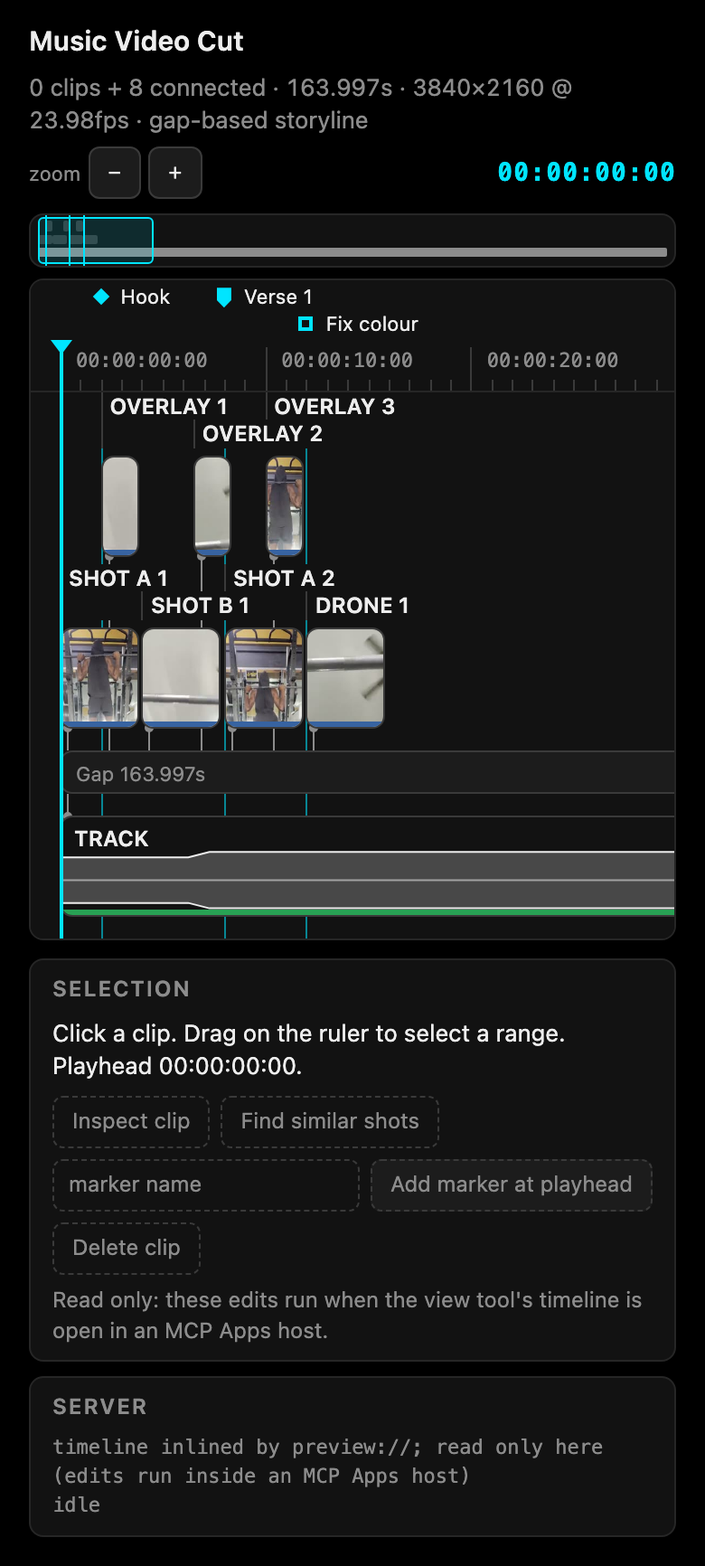
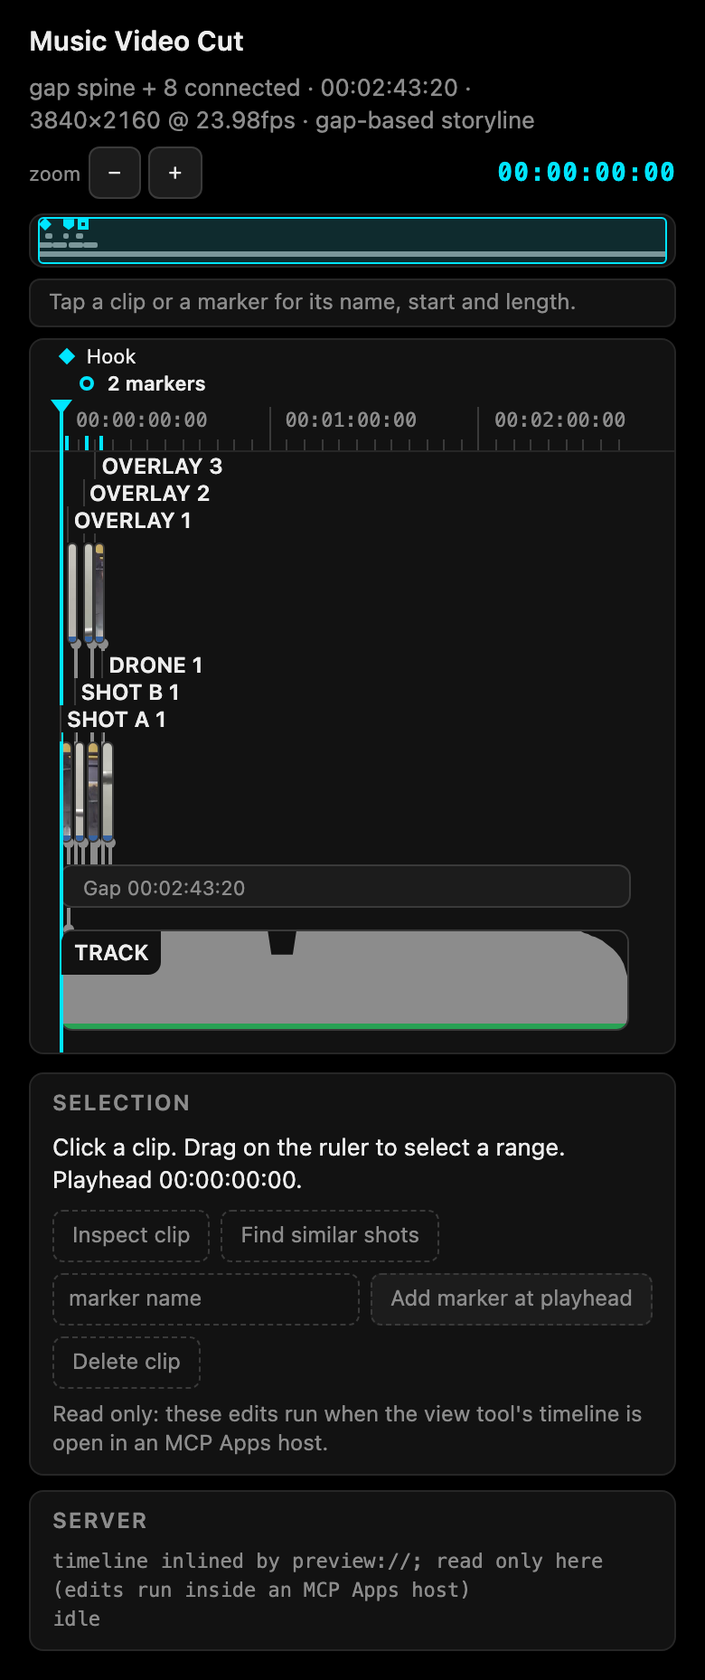
docs: 0.34 round 3, every frame and the README picture re-shot, CHANGELOG, README, counts
- docs/screenshots/2026-11-15_034-*: all sixteen frames re-shot after round
  3 from the same headless harness (CMUX_PREVIEW stubbed, paths rewritten to
  /fcp-demo, shot_guard clean).
- docs/assets/timeline-preview.png: now the gym cut at 1440, dark, drawn by
  scripts/readme_timeline.py, which checked it before saving (every picture
  clip with a filmstrip that is not flat, every clip with sound with its
  waveform, 4 markers drawn of 4). The README caption says what it is.
- CHANGELOG 0.34.0: the round-3 changes (fit, names on rows, nothing through
  text, transitions, titles, markers in clusters, the waveform's own band,
  the strip, overview, header, the README picture), their gates and
  mutations, and what is still not done.
- README app section and CLAUDE.md architecture updated; test counts
  re-measured on four variants (2961 tests across 106 files).

Claude-Session: https://claude.ai/code/session_01Majkfyw52xXpeyZZPHZGD2

diff --git a/CLAUDE.md b/CLAUDE.md
@@ -24,11 +24,19 @@ fcpxml/timeline_app.py — The MCP Apps timeline: a PURE payload builder (every
                       round-trip with no ffmpeg) and the self-contained
                       ui://fcp/timeline shell (no CDN, no fetch). ONE look
                       since 0.34 (direction B, open like Final Cut; the
-                      `direction` flag is gone): overview bar, median clip
-                      >= 44 px, 88/72/56 px clips, names whole / middle-cut /
-                      on a rail / in the tap sheet (never 1-3 chars), role
-                      stripe, waveform, marker glyphs, snap, host theme then
-                      OS. tests/test_app_glance.py holds every rule on the
+                      `direction` flag is gone): the whole cut in the track
+                      at open (round 3 replaced "median clip >= 44 px"),
+                      overview bar, 88/72/56 px clips, the filmstrip over
+                      the waveform's own band, names whole / middle-cut / on
+                      name rows (railFor) / in the tap strip above the ruler
+                      (never 1-3 chars), markers named right of their glyph
+                      or in cluster chips (placeMarkers), nothing drawn
+                      through text (z: conn -1 < flash 4 < trans 5 <
+                      playhead 6 < labels 7 < rows 8+ in an isolated
+                      #canvas), role stripe and Titles-coloured title
+                      bodies, snap, host theme then OS.
+                      scripts/readme_timeline.py draws the README picture
+                      (the gym cut) and refuses to save an empty one. tests/test_app_glance.py holds every rule on the
                       three fixtures (gym, music video, demo/fixtures/
                       interview.py). The payload travels as the result's
                       structuredContent (mcp_compat.ToolReply ->
@@ -321,7 +329,7 @@ CI runs both on every push to main. If either fails, the commit gets an X on Git
 
 ## Testing
 
-2906 tests across 105 files (measured 2026-11-15 on v0.34.0 after the gatekeeper's round 2, Final Cut Pro 12.4 present: 2898 pass / 8 skip on mcp 2.3.0 and 2895 pass / 11 skip on mcp 1.28.1, both with Pillow and Playwright's Chromium and `FCP_MCP_REQUIRE_BROWSER=1`, ffmpeg 9.0.1; 2749 pass / 13 skip on ffmpeg 6.1.6 via `scripts/test-ffmpeg6.sh`, without Playwright, where `test_app_glance.py`, `test_app_labels.py`, `test_app_motion.py` and `test_hero_assets.py` skip as modules; with `FCP_MCP_INDEX=off` 2874 pass / 32 skip, the skips being tests OF the cache). v0.34.0 adds `test_app_glance.py` (32, replaces `test_app_directions.py`; CI's `rendered-labels` job runs it): the one look on the three fixtures (gym, music video with three markers on its gap, `demo/fixtures/interview.py`) at 1440/430/390: no visible name under 4 characters, none cut, no two texts overlapping, the median clip >= 44 px, the overview spanning the whole cut, no sideways page, cyan text only on the record time, the track area >= 35% of the page at 1440, clip heights by lane type, the middle ellipsis, the tap sheet, the snap, role stripes in Final Cut's colours, waveforms, the four marker glyphs, the flash, theme tokens for preview:// (OS) and for the app in a stand-in host (host theme, OS, change notification), the payload drawn from `structuredContent`; and (round 2) every ruler time 2 px clear of every tick, every visible marker glyph with its whole name, no band of one flat colour across a picture clip's body; each gate broken once inside the module (14 mutations in 13 `*_red` tests; the flash test is not one). `test_view_budget.py` (8, no browser): through the registered tools/call handler on the installed SDK, the five-clip text under 2,000 characters with no picture, the interview payload under 700,000 bytes, peaks cached in the index and identical with it off; red on the 0.33 reply, a full-rate waveform, a reader that skips the index. `test_diagnose_order.py` (4): the Issues table FAIL/WARN/INFO and a lane clip's flash at its timeline_start, each with its mutation. `test_proofs.py` gained the silence-label-inside-its-span and flash-badge gates with mutations; `test_palette.py` runs `scripts/fcp_role_colours.m` against Final Cut when it and clang are installed. v0.33.0 adds `test_media_clock.py` (62, #45): the issue's repro; every writer read back through the parser to the same FILE frames with and without a tmcd track at 30, 29.97 NDF/DF and 23.976; a clock off the sequence grid never snapped before the file; Sony/Matroska timecode found and not used; missing media and no ffprobe; a Chinese folder with a space, DTD-valid; the validator's Media clock FAIL/WARN/PASS/not-judged/not-measured rows, one probe per file; `src` on insert/connected clips; exact source starts; drop-frame labels both ways. 41 mutations, each red (2026-11-14; script kept outside the repo); suite 2692 pass / 9 skip on ffmpeg 9.0.1 and on 6.1.6, 2668 / 33 with FCP_MCP_INDEX=off, in a venv without Playwright or Pillow. v0.32.0 adds `test_proofs.py`: every gate reads the OUTPUT and compares it with a truth computed in the test (its own timecode function, the PARSED timeline): each sheet cell's record and source timecodes read back off the PNG (the phone page also at its delivered 390 px), both burn lines of all 724 frames of the burned gym proxy against the clips on screen ("Bench (L1) over Squat"), every check thumbnail against the ruler drawn under it, every ruler tick to 1 px on every row it claims, the removed frames and the cut pair, the cut's out- and in-point each read through its own band's drawn ruler, no label within 8 px of a line or mark, the padding read from the edit, every range in-out with its length, the dB waveform and its labelled scale, one clip count across three outputs, the picture-flash at 00:00:20:03, the 14 px / 1568 px / 12-cell rule, burn-before-verify failing the lane instrument on a bottom-left quarter PiP, a frame decoded by index (testsrc2) to prove the shown frame is the named one, image blocks present and under the cap through `server.call_tool` on both SDKs, no collisions, no truncation, red only for failure; it builds `demo/fixtures/gym_session.py` once per module with the journal and index off and restored after. `test_visual.py` was rewritten for the banded check and `test_preview.py` for the inlined page; `test_app_labels.py` holds the page's fit, every clip named (inside or on its rail) and the read-only controls (the clip numbers and the key went with the 0.32 look in 0.34). conftest.py stubs the cmux preview hook for every test. 158 mutations, each red (2026-11-13; 40 of them also on mcp 2.3.0); the round-4 script and logs are kept outside the repo with the gauntlet. `test_hero_assets.py` decodes the hero MP4's first frame with ffmpeg and requires the finished cut; since round 6 it also holds the composed stage (no hold over 1.5 s, a seamless loop, no dissolve between held pictures, the recorder's own coverage and type numbers), and since round 7 the read time (every caption's hold, read off the MP4's caption band), the GIF's one-frame holds, and `hero-run.json` (the close-up and the unedited recording are the same run: same notes, results and thumbnails, each file's sha256 recorded); `demo/hero/record.js` refuses the per-frame gates itself (doubled, dropped or clipped names, stretched thumbnails, coverage, measured type, caption holds, the split's frame count, the push range, a clip count that jumps without motion), and `build.py`'s `tie()` refuses two recordings that showed different runs. `test_front_door.py` pins the frozen social card and logo by sha256: changing one is a deliberate act that updates the pin. Mutation runs go with PYTHONDONTWRITEBYTECODE=1: a same-length mutation restored within the same second leaves a .pyc of the mutated source that Python still trusts. `test_app_labels.py` renders the app and the preview:// page in headless Chromium and fails on any cut or needlessly hidden label; CI's `rendered-labels` job installs the browser and sets `FCP_MCP_REQUIRE_BROWSER=1` so it cannot skip there. `test_sequence_duration.py` holds the ripple-shortens-the-sequence fix. v0.31.0 adds `test_palette.py` (every colour in a surface file is a token of `fcpxml/palette.py`, tokens are grey/cyan/red, text pairs at 4.5:1 in both modes, the rendered app and preview:// carry only tokens, three README badges on the tokens), `test_schema_budget.py` (the advertised schema, 30,714 characters, may not grow; a shrink of more than 500 asks for the budget to be lowered), `test_front_door.py` (the old tagline, name, Omni model and card version at zero outside CHANGELOG.md; one display name), `test_pypi_readme.py` (the publish-time rewrite and the check of the BUILT description), the price table's sources and 45-day age in `test_gen.py`, and `view`'s summary agreeing with `diagnose` in `test_view_group.py`; each guard was broken in the real code once and seen red (2026-11-12). v0.30.0 adds `test_preview_audio.py`: loudness measured at chosen instants of the rendered file (each clip heard at its time, a gap silent, an audio lane from its offset, -96 dB silent, a `<video>` element silent) with a mutation check that a clip moved to 0s reads as silence where it belongs. Run `scripts/test-ffmpeg6.sh` before pushing anything that touches the filtergraph: ffmpeg 6.1 is CI's build and it has already behaved differently from 9.x once. v0.29.0 adds `test_asset_clock.py`: one 8s clip written with and without a 01:00:00:00 timecode track must give the same answer from silence detect/remove, scene detect/split, transcript edits, find_shots, find_to_timeline (in-points written on the asset clock), the view payload and gen's frame; mutation-checked (9 fail with the origin ignored). v0.28.0 adds `test_preview_truth.py`: John Palchak's three preview_render cases rebuilt in Final Cut's own shapes through the real parser and ffmpeg (a transition longer than its neighbour, a PNG still alone on the spine, lanes on a trimmed parent and on a 3600s gap), plus timecoded media, a mid-timeline gap, a clip past the end of its file, an audio-only spine clip, a missing head handle, a transformed PiP, mixed clip shapes (the "Nothing was written" error, which FAILS on 0.27.2), the lane instrument run against a render without the lane, an empty render refused, drift past a frame unverified, and the fallback ladder. Each guard was mutation-checked (2026-11-02). `test_filtergraph.py` now asserts the handle model (xfade at the transition's own start, no change to total) instead of the old overlap. v0.27.1 adds `test_live_bundle_push.py` (a `.fcpxmld` push carries its library location in the copied bundle's `Info.fcpxml` with sidecars intact, the autopush shape gets a temp copy, bundle verification reads `Info.fcpxml`, the read-back refusal and the blocked-Apple-event message, each mutation-checked). v0.27.0 adds `test_effect_registry.py` (every transition uid read against Final Cut's own `Filters.bundle` plugin list when the app is installed, with a mutation check that a fabricated uid fails it) and `test_fcp_import_refusals.py` (the #31-#34 repros verbatim: handle refusals that write nothing, the validator's handle check including an off-centre transition, rough-cut transitions DTD-valid and skipped-and-reported without media, assets copied whole with their format, anchored offsets on the parent's clock read back through the parser). v0.26.0 adds `test_timeline_app.py` (the `ui://` resource's MIME type through the real handler on both SDKs, `_meta.ui.resourceUri` on the wire, the payload round-tripping both fixtures as Fractions, marker clocks, word clipping, thumbnail bounds, no external URLs in the shell), `test_view_group.py`, `test_gen.py` (prices, the gate and its refusals, the key guards with mutation checks, both adapters against a fake transport, the probe on synthesized media, the insert on a DTD-valid fixture validated with xmllint when the DTD is present), `test_gen_group.py` (end to end with a fake provider: journal rows, redaction with its mutation check, sandboxed writes) and `test_project_guard.py` (mismatch refuses before the review gate, the sha256 footer, `analyze_timeline` and `history` report it, mutation check). v0.24.0 adds `test_gap_reporting.py` (the reporting tools and the preview on a gap-based edit, each with a spine-based control, plus the sub-frame silence floor). v0.23.0 adds `test_gap_multicam.py` (issue #23: mc-clip/caption under a gap spine, `<media>` angle resolution via `mc-source`, timeline_start against the gap's local clock, the `media_clips()` view, and that `detect_media_silence`/`detect_scenes` open the angle files). v0.20.0 adds transition and lane coverage to `test_filtergraph.py` (xfade placement, the unplaceable/missing/occupied/shortened reports, the crossfade-shifted overlay window, lane stacking order) and to `test_render.py` (real ffmpeg accepts both chains; the overlaid frame is compared against the same frame of a spine-only render, so a graph that composites nothing fails). v0.19.0 adds `test_journal.py` + `test_journal_wiring.py` (hash-checked undo, never-deletes, one ledger per folder), `test_review_gate.py`, `test_organize.py` + `test_organize_group.py` (DTD order of inserted `<keyword>`/`<rating>`, organize_auto never computes), `test_diversity_constraint.py` (with its mutation check), `test_find.py`, `test_vlm.py` (fake `mlx_vlm` records the env at import; sockets patched to raise) and `test_find_group.py` (never transcribes, never downloads, live captions stored once). v0.18.0 adds `test_index.py` (schema, invalidation on a touched source, corrupt-file rebuild, dir mode 700), `test_index_wiring.py` (second call skips ffmpeg/whisper; index off hits them every time), `test_index_group.py`, `test_progress.py` (both SDKs), `test_scenes.py` + `test_scenes_group.py` (synthesised colour-bar clips; real PySceneDetect when installed), `test_transcript_pack.py` + `test_transcript_pack_handler.py`, `test_transcribe_scribe.py` (urlopen patched throughout; the key-leak guard is mutation-checked), and `test_version.py`. Beyond the pre-existing suites, v0.17.0 added: `test_filtergraph.py` (Timeline -> ffmpeg graph, exact Fractions at NTSC rates, the Clip/.start vs ConnectedClip/.offset distinction, transition substitution reporting), `test_render.py` (proxy render plus the artifact duration read-back and its mutation check), `test_visual.py` (filmstrip+waveform from source media, silent-source fallback, and the mutation check that caught the invisible white-on-white waveform), `test_watchfolder.py` (export detection, content digesting, bundle handling), `test_bridges.py` (loopback-only probing, session caching, describe() honesty), `test_preview_group.py` and `test_watch_group.py` (MCP wiring, UNVERIFIED labelling), `test_edl_import.py` (the real video-use schema, round-tripped against the literal from their own test file), `test_autopush.py`, and `test_tool_seam.py` (the tools/ registry, the merge guard, and the server binding). Tests use `examples/sample.fcpxml` and `examples/music-video.fcpxml` as fixture data plus inline XML and synthesised ffmpeg media. Tests create temp files and clean up after.
+2961 tests across 106 files (measured 2026-11-15 on v0.34.0 after the gatekeeper's round 3, Final Cut Pro 12.4 present: 2953 pass / 8 skip on mcp 2.3.0 and 2950 pass / 11 skip on mcp 1.28.1, both with Pillow and Playwright's Chromium and `FCP_MCP_REQUIRE_BROWSER=1`, ffmpeg 9.0.1; 2751 pass / 14 skip on ffmpeg 6.1.6 via `scripts/test-ffmpeg6.sh`, without Playwright, where `test_app_glance.py`, `test_readme_picture.py`, `test_app_labels.py`, `test_app_motion.py` and `test_hero_assets.py` skip as modules; with `FCP_MCP_INDEX=off` 2929 pass / 32 skip, the skips being tests OF the cache). v0.34.0 adds `test_app_glance.py` (55 test functions, replaces `test_app_directions.py`; CI's `rendered-labels` job runs it): the one look on the three fixtures (gym, music video with three markers on its gap, `demo/fixtures/interview.py`) at 1440/430/390: no visible name under 4 characters, none cut, no two texts overlapping, the median clip >= 44 px, the overview spanning the whole cut, no sideways page, cyan text only on the record time, the track area >= 35% of the page at 1440, clip heights by lane type, the middle ellipsis, the tap sheet, the snap, role stripes in Final Cut's colours, waveforms, the four marker glyphs, the flash, theme tokens for preview:// (OS) and for the app in a stand-in host (host theme, OS, change notification), the payload drawn from `structuredContent`; and (round 2) every ruler time 2 px clear of every tick, every visible marker glyph with its whole name, no band of one flat colour across a picture clip's body; and (round 3) the whole cut at open, names on rows for 80% of wide storyline clips, lanes that collapse, nothing painted inside a text box (hit-tested, taps included), no name across the flash line, Final Cut transitions and titles, connected clips 6 px or wider, the overview's contrast and glyphs, the header whole, markers named or clustered with the file's count, the waveform in its own band, the tap strip above the ruler; each gate broken once inside the module (a `*_red` test per gate). `test_readme_picture.py` holds the README builder's refusals (scripts/readme_timeline.py). `test_view_budget.py` (8, no browser): through the registered tools/call handler on the installed SDK, the five-clip text under 2,000 characters with no picture, the interview payload under 700,000 bytes, peaks cached in the index and identical with it off; red on the 0.33 reply, a full-rate waveform, a reader that skips the index. `test_diagnose_order.py` (4): the Issues table FAIL/WARN/INFO and a lane clip's flash at its timeline_start, each with its mutation. `test_proofs.py` gained the silence-label-inside-its-span and flash-badge gates with mutations; `test_palette.py` runs `scripts/fcp_role_colours.m` against Final Cut when it and clang are installed. v0.33.0 adds `test_media_clock.py` (62, #45): the issue's repro; every writer read back through the parser to the same FILE frames with and without a tmcd track at 30, 29.97 NDF/DF and 23.976; a clock off the sequence grid never snapped before the file; Sony/Matroska timecode found and not used; missing media and no ffprobe; a Chinese folder with a space, DTD-valid; the validator's Media clock FAIL/WARN/PASS/not-judged/not-measured rows, one probe per file; `src` on insert/connected clips; exact source starts; drop-frame labels both ways. 41 mutations, each red (2026-11-14; script kept outside the repo); suite 2692 pass / 9 skip on ffmpeg 9.0.1 and on 6.1.6, 2668 / 33 with FCP_MCP_INDEX=off, in a venv without Playwright or Pillow. v0.32.0 adds `test_proofs.py`: every gate reads the OUTPUT and compares it with a truth computed in the test (its own timecode function, the PARSED timeline): each sheet cell's record and source timecodes read back off the PNG (the phone page also at its delivered 390 px), both burn lines of all 724 frames of the burned gym proxy against the clips on screen ("Bench (L1) over Squat"), every check thumbnail against the ruler drawn under it, every ruler tick to 1 px on every row it claims, the removed frames and the cut pair, the cut's out- and in-point each read through its own band's drawn ruler, no label within 8 px of a line or mark, the padding read from the edit, every range in-out with its length, the dB waveform and its labelled scale, one clip count across three outputs, the picture-flash at 00:00:20:03, the 14 px / 1568 px / 12-cell rule, burn-before-verify failing the lane instrument on a bottom-left quarter PiP, a frame decoded by index (testsrc2) to prove the shown frame is the named one, image blocks present and under the cap through `server.call_tool` on both SDKs, no collisions, no truncation, red only for failure; it builds `demo/fixtures/gym_session.py` once per module with the journal and index off and restored after. `test_visual.py` was rewritten for the banded check and `test_preview.py` for the inlined page; `test_app_labels.py` holds the page's fit, every clip named (inside or on its rail) and the read-only controls (the clip numbers and the key went with the 0.32 look in 0.34). conftest.py stubs the cmux preview hook for every test. 158 mutations, each red (2026-11-13; 40 of them also on mcp 2.3.0); the round-4 script and logs are kept outside the repo with the gauntlet. `test_hero_assets.py` decodes the hero MP4's first frame with ffmpeg and requires the finished cut; since round 6 it also holds the composed stage (no hold over 1.5 s, a seamless loop, no dissolve between held pictures, the recorder's own coverage and type numbers), and since round 7 the read time (every caption's hold, read off the MP4's caption band), the GIF's one-frame holds, and `hero-run.json` (the close-up and the unedited recording are the same run: same notes, results and thumbnails, each file's sha256 recorded); `demo/hero/record.js` refuses the per-frame gates itself (doubled, dropped or clipped names, stretched thumbnails, coverage, measured type, caption holds, the split's frame count, the push range, a clip count that jumps without motion), and `build.py`'s `tie()` refuses two recordings that showed different runs. `test_front_door.py` pins the frozen social card and logo by sha256: changing one is a deliberate act that updates the pin. Mutation runs go with PYTHONDONTWRITEBYTECODE=1: a same-length mutation restored within the same second leaves a .pyc of the mutated source that Python still trusts. `test_app_labels.py` renders the app and the preview:// page in headless Chromium and fails on any cut or needlessly hidden label; CI's `rendered-labels` job installs the browser and sets `FCP_MCP_REQUIRE_BROWSER=1` so it cannot skip there. `test_sequence_duration.py` holds the ripple-shortens-the-sequence fix. v0.31.0 adds `test_palette.py` (every colour in a surface file is a token of `fcpxml/palette.py`, tokens are grey/cyan/red, text pairs at 4.5:1 in both modes, the rendered app and preview:// carry only tokens, three README badges on the tokens), `test_schema_budget.py` (the advertised schema, 30,714 characters, may not grow; a shrink of more than 500 asks for the budget to be lowered), `test_front_door.py` (the old tagline, name, Omni model and card version at zero outside CHANGELOG.md; one display name), `test_pypi_readme.py` (the publish-time rewrite and the check of the BUILT description), the price table's sources and 45-day age in `test_gen.py`, and `view`'s summary agreeing with `diagnose` in `test_view_group.py`; each guard was broken in the real code once and seen red (2026-11-12). v0.30.0 adds `test_preview_audio.py`: loudness measured at chosen instants of the rendered file (each clip heard at its time, a gap silent, an audio lane from its offset, -96 dB silent, a `<video>` element silent) with a mutation check that a clip moved to 0s reads as silence where it belongs. Run `scripts/test-ffmpeg6.sh` before pushing anything that touches the filtergraph: ffmpeg 6.1 is CI's build and it has already behaved differently from 9.x once. v0.29.0 adds `test_asset_clock.py`: one 8s clip written with and without a 01:00:00:00 timecode track must give the same answer from silence detect/remove, scene detect/split, transcript edits, find_shots, find_to_timeline (in-points written on the asset clock), the view payload and gen's frame; mutation-checked (9 fail with the origin ignored). v0.28.0 adds `test_preview_truth.py`: John Palchak's three preview_render cases rebuilt in Final Cut's own shapes through the real parser and ffmpeg (a transition longer than its neighbour, a PNG still alone on the spine, lanes on a trimmed parent and on a 3600s gap), plus timecoded media, a mid-timeline gap, a clip past the end of its file, an audio-only spine clip, a missing head handle, a transformed PiP, mixed clip shapes (the "Nothing was written" error, which FAILS on 0.27.2), the lane instrument run against a render without the lane, an empty render refused, drift past a frame unverified, and the fallback ladder. Each guard was mutation-checked (2026-11-02). `test_filtergraph.py` now asserts the handle model (xfade at the transition's own start, no change to total) instead of the old overlap. v0.27.1 adds `test_live_bundle_push.py` (a `.fcpxmld` push carries its library location in the copied bundle's `Info.fcpxml` with sidecars intact, the autopush shape gets a temp copy, bundle verification reads `Info.fcpxml`, the read-back refusal and the blocked-Apple-event message, each mutation-checked). v0.27.0 adds `test_effect_registry.py` (every transition uid read against Final Cut's own `Filters.bundle` plugin list when the app is installed, with a mutation check that a fabricated uid fails it) and `test_fcp_import_refusals.py` (the #31-#34 repros verbatim: handle refusals that write nothing, the validator's handle check including an off-centre transition, rough-cut transitions DTD-valid and skipped-and-reported without media, assets copied whole with their format, anchored offsets on the parent's clock read back through the parser). v0.26.0 adds `test_timeline_app.py` (the `ui://` resource's MIME type through the real handler on both SDKs, `_meta.ui.resourceUri` on the wire, the payload round-tripping both fixtures as Fractions, marker clocks, word clipping, thumbnail bounds, no external URLs in the shell), `test_view_group.py`, `test_gen.py` (prices, the gate and its refusals, the key guards with mutation checks, both adapters against a fake transport, the probe on synthesized media, the insert on a DTD-valid fixture validated with xmllint when the DTD is present), `test_gen_group.py` (end to end with a fake provider: journal rows, redaction with its mutation check, sandboxed writes) and `test_project_guard.py` (mismatch refuses before the review gate, the sha256 footer, `analyze_timeline` and `history` report it, mutation check). v0.24.0 adds `test_gap_reporting.py` (the reporting tools and the preview on a gap-based edit, each with a spine-based control, plus the sub-frame silence floor). v0.23.0 adds `test_gap_multicam.py` (issue #23: mc-clip/caption under a gap spine, `<media>` angle resolution via `mc-source`, timeline_start against the gap's local clock, the `media_clips()` view, and that `detect_media_silence`/`detect_scenes` open the angle files). v0.20.0 adds transition and lane coverage to `test_filtergraph.py` (xfade placement, the unplaceable/missing/occupied/shortened reports, the crossfade-shifted overlay window, lane stacking order) and to `test_render.py` (real ffmpeg accepts both chains; the overlaid frame is compared against the same frame of a spine-only render, so a graph that composites nothing fails). v0.19.0 adds `test_journal.py` + `test_journal_wiring.py` (hash-checked undo, never-deletes, one ledger per folder), `test_review_gate.py`, `test_organize.py` + `test_organize_group.py` (DTD order of inserted `<keyword>`/`<rating>`, organize_auto never computes), `test_diversity_constraint.py` (with its mutation check), `test_find.py`, `test_vlm.py` (fake `mlx_vlm` records the env at import; sockets patched to raise) and `test_find_group.py` (never transcribes, never downloads, live captions stored once). v0.18.0 adds `test_index.py` (schema, invalidation on a touched source, corrupt-file rebuild, dir mode 700), `test_index_wiring.py` (second call skips ffmpeg/whisper; index off hits them every time), `test_index_group.py`, `test_progress.py` (both SDKs), `test_scenes.py` + `test_scenes_group.py` (synthesised colour-bar clips; real PySceneDetect when installed), `test_transcript_pack.py` + `test_transcript_pack_handler.py`, `test_transcribe_scribe.py` (urlopen patched throughout; the key-leak guard is mutation-checked), and `test_version.py`. Beyond the pre-existing suites, v0.17.0 added: `test_filtergraph.py` (Timeline -> ffmpeg graph, exact Fractions at NTSC rates, the Clip/.start vs ConnectedClip/.offset distinction, transition substitution reporting), `test_render.py` (proxy render plus the artifact duration read-back and its mutation check), `test_visual.py` (filmstrip+waveform from source media, silent-source fallback, and the mutation check that caught the invisible white-on-white waveform), `test_watchfolder.py` (export detection, content digesting, bundle handling), `test_bridges.py` (loopback-only probing, session caching, describe() honesty), `test_preview_group.py` and `test_watch_group.py` (MCP wiring, UNVERIFIED labelling), `test_edl_import.py` (the real video-use schema, round-tripped against the literal from their own test file), `test_autopush.py`, and `test_tool_seam.py` (the tools/ registry, the merge guard, and the server binding). Tests use `examples/sample.fcpxml` and `examples/music-video.fcpxml` as fixture data plus inline XML and synthesised ffmpeg media. Tests create temp files and clean up after.
 
 ## Releasing — the tag is not the release
 

diff --git a/CHANGELOG.md b/CHANGELOG.md
@@ -4,12 +4,14 @@
 
 A timeline that reads at a glance, in one look. James picked direction B
 (open, like Final Cut's timeline) on 2026-11-15, so the `view` app
-(`ui://fcp/timeline`) and `preview://` now draw only that: an overview bar
-with the whole cut, tall clips with a filmstrip over their waveform, Final
-Cut 12.4's own role colours on a 3 px stripe, a glyph per marker kind, names
-that are whole, cut in the middle or on a rail and never 1-3 characters, a
-tap sheet for a clip too narrow to name, a playhead that snaps to cuts, and
-the host's or the OS's theme. The payload left the text: it is the result's
+(`ui://fcp/timeline`) and `preview://` now draw only that: the whole cut in
+the track at open at every width, an overview bar, tall clips with the
+filmstrip over the waveform's own band, Final Cut 12.4's own role colours,
+transitions and titles drawn as Final Cut draws them, a glyph per marker
+kind with its name (or a cluster chip), names that are whole, cut in the
+middle or on name rows and never 1-3 characters, nothing drawn through text,
+a strip above the ruler for what a tap selects, a playhead that snaps to
+cuts, and the host's or the OS's theme. The payload left the text: it is the result's
 `structuredContent`, so the text a client without Apps reads for a five-clip
 cut fell from 36,701 characters (0.33, thumbnails inlined) to 609. Also in
 this release: PR #44's parser fixes (connected storylines written the DTD way,
@@ -25,28 +27,50 @@ lane clip) and what the parser READS from Final Cut's own files (below).
 ### Changed (existing outputs moved)
 - **The timeline app has one look.** Direction A and the 0.32 look are gone,
   with them the `direction` argument of `render_page_html`, clip numbers and
-  the key under the timeline (a clip is named inside, on its lane's rail, or
-  in the tap sheet). Measured in headless Chromium on the three fixtures:
-  see Gates below.
-- **Fit.** The main track opens at the zoom where the median clip is at least
-  44 px wide, or the whole cut if that is wider; an overview bar above the
-  tracks always carries the whole cut (every clip a bar, every marker a
-  tick, the flash in red) with the part in view boxed, and a click there
-  scrolls to it. The page never scrolls sideways: at 390 the overview, not
-  a sideways scroll, shows the whole cut.
+  the key under the timeline (a clip is named inside, on its lane's name
+  rows, or in the strip when tapped). Measured in headless Chromium on the
+  three fixtures: see Gates below. Shaped over three rounds of frame checks
+  and two fresh critics (round 3 below is theirs).
+- **Fit.** The whole cut is in the track at open, at every width (round 3:
+  this replaced the plan's "median clip at least 44 px", which left the
+  music video, the interview and every phone width scrolling at open); zoom
+  + and - zoom from there. An overview bar always carries the whole cut
+  (every clip a bar at 3:1 or better on its ground, every marker its glyph,
+  the flash in red) with the part in view boxed; a click there scrolls to
+  it. The page never scrolls sideways. A connected lane with nothing in the
+  part in view collapses to a thin rule, its names with it.
 - **Track area.** Clips are 88 px tall on picture lanes and 72 px on title
   and sound lanes on a desktop, 56 px on a phone; the panel under the
   timeline is a compact two-column card. The track area is 39-56% of the
   page at 1440 on the three fixtures (it was 26% on the gym cut in the 0.33
   direction B shot).
 - **Names.** Never shrunk to 1-3 characters: under 28 px a clip draws no
-  name and a tap opens a sheet with its name, start timecode and length; a
-  storyline clip's name is cut in the middle and keeps its ending
-  ("A very…ke 12"), never under 4 of its characters; a connected clip too
-  narrow for its whole name has it on its lane's rail (two rows, a leader to
-  the clip). Selecting a clip shows its start timecode, in the panel and on
-  the playhead. The playhead snaps to a cut (a clip's start or end) within
-  8 px.
+  name inside; a storyline clip's name is cut in the middle and keeps its
+  ending ("A very…ke 12"), never under 4 of its characters; a name that does
+  not fit inside goes, whole, on its lane's staggered name rows with a
+  leader to the clip (up to three rows; the storyline's under it, a
+  connected lane's above it; the widest clips first; a connected clip's
+  name ends at its clip's end where there is room; never across the flash
+  line); a clip with no room anywhere stays tappable. On the interview at
+  1440, 24 of 24 storyline clips 28 px or wider are named. A tap selects the
+  clip and shows its name, start and length in a strip anchored above the
+  ruler (round 3: no sheet floats over the lanes), and the Selection panel
+  updates; every time and length a person reads is a timecode, the exact
+  rational in its title. The playhead snaps to a cut within 8 px.
+- **Nothing is drawn through text.** Marker lines no longer run down
+  through the lanes (a marker is its glyph and name on the ruler and a short
+  tick in the tick band, as Final Cut draws it); names sit on opaque grounds
+  above the playhead, the flash line and the connection lines (2 px, an
+  anchor dot), which run behind them. Checked by hit-testing every text box.
+- **Transitions** are a translucent overlay across both clips at the edit
+  with Final Cut's bow-tie, never under 14 px wide, their name ("Cross
+  Dissolve 0.5s") on the name rows; the next clip's name starts after it.
+- **Titles** have the Titles role colour as their body (Final Cut 12.4's,
+  read from the app) and their name inside when it fits; a narrow title is
+  a 24 px bar named on its row. Connected clips are never drawn thinner than
+  6 px.
+- **The header** reads "gap spine + 8 connected" on a gap spine, gives the
+  length as a timecode, and never breaks inside "3840×2160 @ 23.98fps".
 - **Roles.** A 3 px stripe in Final Cut 12.4's own role colours, read from
   the installed app (`scripts/fcp_role_colours.m` loads its Flexo.framework
   and asks `FFColorForRole +colorSchemeForIndex:` for each built-in role):
@@ -56,21 +80,22 @@ lane clip) and what the parser READS from Final Cut's own files (below).
   `itemBackgroundColor`, the clip body in Final Cut's own timeline). They are
   the one documented exception to grey/cyan/red in `fcpxml/palette.py`, for
   the stripe only. The 0.33 values were set by eye.
-- **Sound.** A waveform on every clip with sound, from the file's peak
-  envelope, mirrored round a centre line and outlined at its real level, so
-  a flat tone reads as a flat waveform and never as a filled box; on a clip
-  with a picture it lies over the foot of the filmstrip on a shade that
-  deepens downward, nothing between them. Measured once per file with ffmpeg
+- **Sound.** A waveform on every clip with sound, in its own band under the
+  filmstrip (Final Cut's clip anatomy: the filmstrip ends where the band
+  begins), filled up from the band's foot and scaled to the clip's own
+  loudest peak, so a steady tone is a filled band; the clip's real peak in
+  dBFS is in its tooltip and the panel. Measured once per file with ffmpeg
   (10 levels a second, -48..0 dBFS), cached in the index as analysis kind
   `peaks@10/s`, and sent as a short array (4 points a second, at most 160 a
   clip). `FCP_MCP_INDEX=off` measures every time and gives the same arrays.
   `view_timeline` takes `waveforms=false` to skip it.
 - **Markers.** Separate glyphs for standard, chapter, to-do and completed
-  to-do markers. A glyph never shows without its whole name: each marker
-  (after any flash flag) takes the first of row 0 or row 1 with its name
-  right of the glyph, then left of it, that is in view and clear; one with
-  no such place is not drawn on the ruler, glyph and name both, and the
-  overview keeps its tick. With a gap's markers read (below), `view`'s
+  to-do markers. A glyph never shows without its whole name to its right:
+  each marker (after any flash flag) takes row 0 or row 1 if its name fits
+  there in view; markers that cannot all be named merge into one cluster
+  chip ("3 markers") at the first of them, which lists them on a tap; no
+  marker in view is hidden (named + clustered = every marker in the file).
+  With a gap's markers read (below), `view`'s
   summary counts the real total on a gap-based edit ("3 markers", where it
   said 0).
 - **The ruler** stacks the two marker rows, the time row, and the frame
@@ -96,6 +121,11 @@ lane clip) and what the parser READS from Final Cut's own files (below).
   extra tool to its model and grow the advertised schema. The structured
   payload reaches the app in the same notification and the spec keeps it
   out of the model's context, so nothing is fetched.
+- **The README picture** is the gym cut at 1440 in the dark theme, built by
+  `scripts/readme_timeline.py`, which refuses to save when a picture clip
+  has no filmstrip or a flat one, a clip with sound has no waveform, or the
+  markers drawn differ from the FCPXML's (the 0.33 picture: the music video
+  drawn without its media, empty clips and none of its markers).
 - **Thumbnails** are 180 px on their short side (twice the 88 px clip, for
   a 2x display; 108 px before) at JPEG quality 5, and the cap is 64 of them
   and 600 KB, so every clip of the interview fixture has its picture. The
@@ -231,6 +261,29 @@ lane clip) and what the parser READS from Final Cut's own files (below).
   view, the 0.32 fit (whole cut, no median rule), 36 px clips, the tap
   sheet never opened, SNAP_PX 0, the host-theme hook removed, the
   prefers-color-scheme block removed, `structuredContent` ignored.
+- `tests/test_app_glance.py`, round 3 (two fresh critics on the round-2
+  build): the whole cut at open (no track scroll) on the three fixtures at
+  1440/430/390 (red with the median rule); the overview spanning the cut
+  when zoomed (red mapping only the view); 80% of storyline clips 28 px or
+  wider named on the interview at 1440 (measured 100%; red with no storyline
+  rows); a lane with nothing in view collapsing (red without); no line,
+  tick, playhead or glyph painted inside any text box, by hit-testing, on
+  every fixture, width and theme and after taps (red with the playhead over
+  the names), and no leader through its own name (red with the round's
+  first leader); no name across the flash line, which starts at the ruler's
+  top (red with names at their clip's start, and with the line from the
+  ruler's foot); transitions translucent with the bow-tie and their name
+  (red with an opaque slab); titles Titles-coloured, narrow ones 24 px bars
+  named on rows (red with a grey body); connected clips 6 px or wider with
+  2 px connection lines (red at 1 px); the overview's bars at 3:1 and every
+  marker a glyph (red with the old bars); the header whole at 390 (red with
+  ordinary spaces); every marker named to the right of its own glyph or
+  counted in a chip, drawn = the file's count (red with a dropped marker);
+  the waveform in its own band, filled (red with fa9b811's overlay); the tap
+  strip above the ruler, nothing over the lanes (red floated over them).
+  `tests/test_readme_picture.py`: the README builder's refusal on the old
+  empty render (no filmstrips, no waveform), on a flat picture and on a
+  missing marker; the gym cut saved.
 - `tests/test_app_glance.py`, round 2 (the gatekeeper's frame check of the
   first build): every ruler time 2 px clear of every tick, on the three
   fixtures at 1440, 430 and 390 in both themes (red with the first build's
@@ -335,8 +388,14 @@ lane clip) and what the parser READS from Final Cut's own files (below).
 - The role stripe uses a clip's main role; a clip whose picture and sound
   have different roles shows its picture's.
 - The empty-band gate covers clips with a picture. A clip with sound and no
-  picture shows its clip colour above and below a quiet waveform, as Final
-  Cut does; its waveform is the same outlined shape.
+  picture is all waveform, scaled to its own loudest peak.
+- Waveforms are scaled per clip (each clip's loudest peak fills its band),
+  so two clips' heights do not compare; the real peak in dBFS is in the
+  tooltip and the panel.
+- At phone width the interview's storyline names reach 30% of its 44 cuts
+  (13 of 44 at 390): the rest are under 28 px and their rows are full; each
+  is named in the strip when tapped.
+- Storyline clips abut, so the 6 px minimum applies to connected clips only.
 - A gap's `<keyword>` and `<rating>` are still not read: `Timeline` has no
   field for them, so reading them is a model change, not a parser fix.
 - `<audition>` as an anchored item or inside a connected storyline is not

diff --git a/README.md b/README.md
@@ -523,15 +523,14 @@ any browser or resource viewer with no host and no fetch. Outside an MCP Apps
 host it is read only; the edit buttons wait for one. (Until 0.32 this was a
 separate static render; there is now one timeline picture.)
 
-![Timeline preview: the 164-second music-video fixture as the preview:// page draws it in 0.34, an overview bar with the whole cut over the tracks, two connected video lanes with their names on rails, the gap the clips hang from, and the music bed on lane -1 with its green music-role stripe, on a true-black page](docs/assets/timeline-preview.png)
+![Timeline preview: a 30-second gym-session cut as the preview:// page draws it in 0.34, the whole cut in the track: four chapter markers on the ruler, a red flash flag one frame before Press, a Bench clip connected on lane 1, six storyline clips each with a filmstrip over its own waveform band and a blue role stripe, a translucent cross dissolve with its bow-tie into Finish named on the row below, on a true-black page](docs/assets/timeline-preview.png)
 
-*`examples/music-video.fcpxml`, 164 seconds, drawn from its FCPXML alone (its
-media paths do not exist here, so no pictures or sound): eight connected
-clips on three lanes over a gap-based storyline. The tracks open where the
-median clip is 44 px wide and the overview bar above carries the whole cut,
-the part in view boxed. A clip too narrow for its whole name has it on its
-lane's rail; one under 28 px opens a sheet with its name, start and length
-when tapped.*
+*A 30-second gym-session cut (`demo/fixtures/gym_session.py`: the author's own
+footage, with test tones for sound), drawn from its FCPXML and its media at
+1440 px, dark: the whole cut in the track, the filmstrip over each clip's
+waveform band, the 1-frame flash before Press in red, the 0.5 s cross dissolve
+named on the row under it. `scripts/readme_timeline.py` refuses to save it
+when a clip has no filmstrip or waveform or a marker is missing.*
 
 ### Proof you can read (v0.32.0)
 
@@ -632,7 +631,7 @@ filepath; a host that speaks MCP Apps opens the `ui://fcp/timeline`
 resource in a sandboxed iframe and posts the result into it. Which hosts do
 that, and which get text, is in [Where the timeline draws](#where-the-timeline-draws).
 
-![The MCP Apps timeline in 0.34 on an 18-minute two-camera interview: an overview bar with the whole cut, a ruler with chapter, standard and to-do marker glyphs, lower thirds named on a rail above the camera cuts, each cut a filmstrip over its waveform with a blue dialogue stripe, a music bed with a green stripe and whooshes with teal effects stripes below, a cyan playhead, and a compact selection panel](docs/screenshots/2026-11-15_034-interview-1440.png)
+![The MCP Apps timeline in 0.34 on an 18-minute two-camera interview: an overview bar with the whole cut, a ruler with chapter, standard and to-do marker glyphs, the whole 18 minutes in the track, lower thirds as purple Titles bars named on rows above the camera cuts, each cut a filmstrip over its waveform band with a blue dialogue stripe and its name inside or on the rows below, a music bed with a green stripe and whooshes with teal effects stripes below, a cyan playhead, and a compact selection panel](docs/screenshots/2026-11-15_034-interview-1440.png)
 
 *The app in headless Chromium, 1440 px, on `demo/fixtures/interview.py` (two
 synthetic cameras, 44 cuts, lower thirds, markers of all four kinds; ffmpeg
@@ -641,21 +640,22 @@ test patterns and sine tones, no person). Light theme:
 `docs/screenshots/2026-11-15_034-interview-390.png`. The gym cut and the
 music video at 1440, 430 and 390 are beside them.*
 
-What it shows (one look since 0.34, open like Final Cut's timeline): an
-overview bar with the whole cut and a box round the part in view; every
+What it shows (one look since 0.34, open like Final Cut's timeline): the
+whole cut in the track at open, and an overview bar with the whole cut and a
+box round the part in view once you zoom; every
 lane (the storyline, connected lanes above, sound lanes below, each
 connected clip with its line to the storyline); clips 88 px tall (titles
-and sound 72 px, every clip 56 px on a phone) with a filmstrip and, over
-its foot, the waveform of their sound (mirrored round a centre line and
-outlined at its real level, so a flat tone looks flat), and a 3 px stripe in
-Final Cut 12.4's own role colour (read from the installed app by
-`scripts/fcp_role_colours.m`); a glyph per marker kind (standard, chapter,
-to-do, completed), never without its whole name; gaps;
-dissolves; a flash frame in red, the only red; a timecode ruler with frame
-ticks and a playhead that snaps to cuts. Names are whole, cut in the middle
-so the ending survives, or on their lane's rail, and never 1-3 characters;
-a clip too narrow for any name opens a sheet with its name, start and
-length. Click a clip for its details; drag on the ruler for a range. It
+and sound 72 px, every clip 56 px on a phone) with a filmstrip over the
+waveform's own band, and a 3 px stripe in Final Cut 12.4's own role colour
+(read from the installed app by `scripts/fcp_role_colours.m`); titles in the
+Titles colour; transitions as a translucent overlay with Final Cut's
+bow-tie; a glyph per marker kind (standard, chapter, to-do, completed),
+always with its name, or counted in a cluster chip; gaps;
+a flash frame in red, the only red; a timecode ruler with frame
+ticks and a playhead that snaps to cuts; no line ever drawn through text. Names are whole, cut in the middle
+so the ending survives, or on their lane's name rows with a leader, and
+never 1-3 characters; a tap shows a clip's name, start and length in a strip
+above the ruler. Click a clip for its details; drag on the ruler for a range. It
 follows the host's theme, then the OS's. The buttons call back into the
 server through the host: **Inspect** (`view_clip`) and **Find similar
 shots** (`find_shots`) are reads; **Add marker at playhead** (`mark`) and
